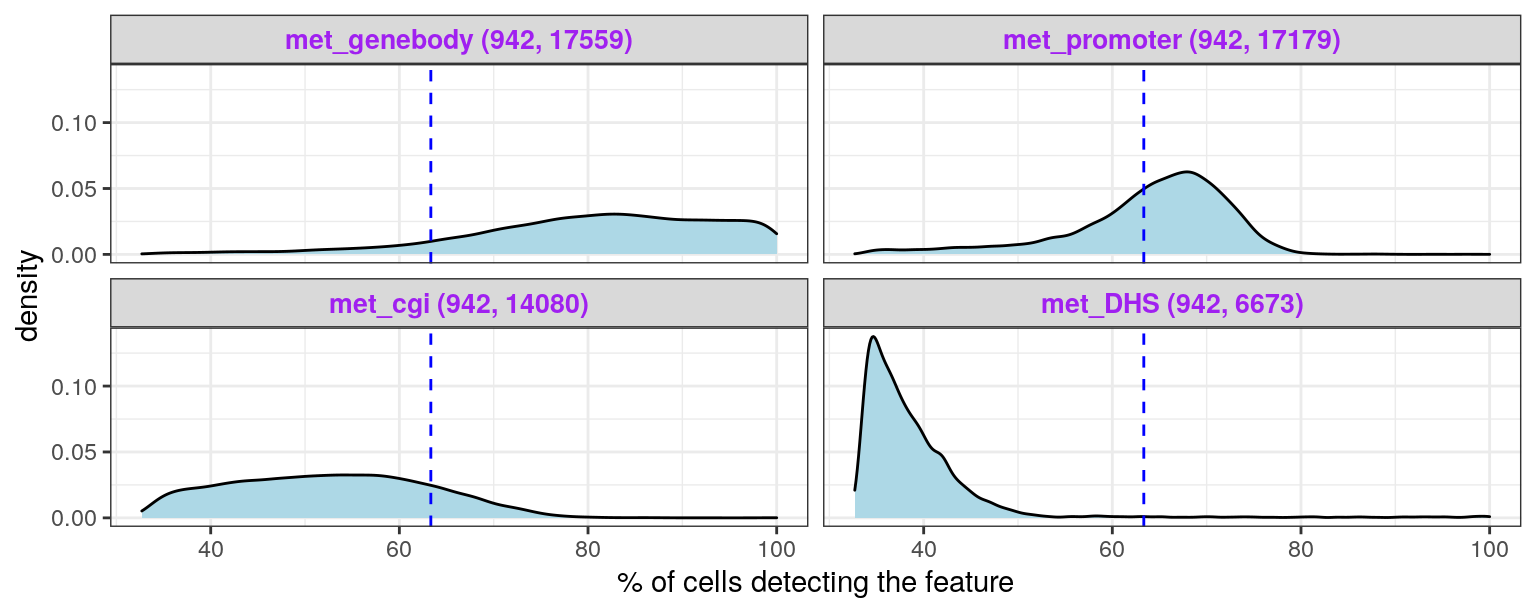
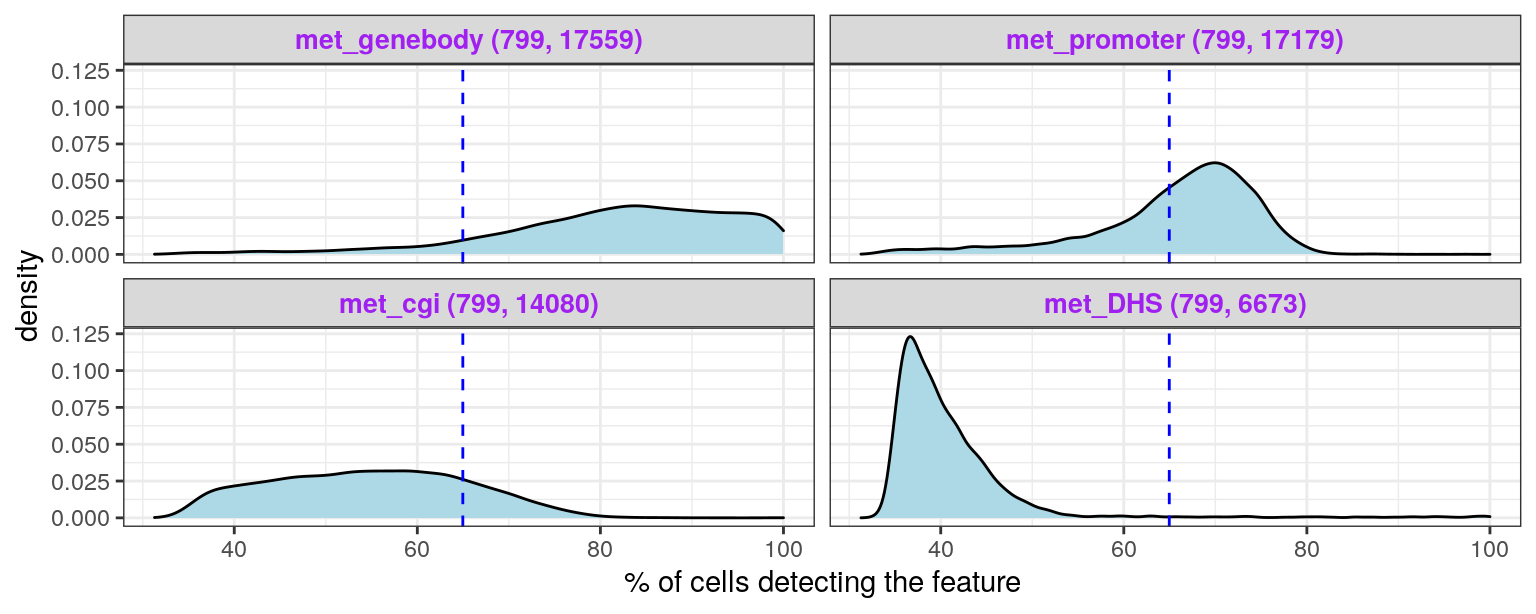
Deploying to gh-pages from  @ d77c88b7bd2f08ad3adbcee92618d14c445e838b 🚀

diff --git a/articles/index.html b/articles/index.html
@@ -127,28 +127,32 @@
 <div id="filter-mae-object" class="section level2">
 <h2 class="hasAnchor">
 <a href="#filter-mae-object" class="anchor"></a>Filter MAE object</h2>
-<div class="sourceCode" id="cb4"><html><body><pre class="r"><span class="co"># Subset RNA expression and DNA methylation modalities</span>
+<div class="sourceCode" id="cb4"><html><body><pre class="r"><span class="co">## subset RNA expression and DNA methylation modalities</span>
 <span class="no">keep_assays</span> <span class="kw">&lt;-</span> <span class="fu"><a href="https://rdrr.io/r/base/grep.html">grep</a></span>(<span class="st">"rna|met"</span>,<span class="fu"><a href="https://rdrr.io/r/base/names.html">names</a></span>(<span class="fu">assays</span>(<span class="no">gastru.mae</span>)))
-<span class="co"># Remove putative extraembryonic cells</span>
-<span class="no">keep_cells</span> <span class="kw">&lt;-</span> !(<span class="no">gastru.mae</span>$<span class="no">lineage</span> <span class="kw">%in%</span> <span class="no">params</span>$<span class="no">drop_lineages</span>)
-<span class="co">## keep full rna SCE for UMAP</span>
-<span class="no">rna.sce</span> <span class="kw">&lt;-</span> <span class="no">gastru.mae</span>[,<span class="no">keep_cells</span>,]@<span class="kw">ExperimentList</span>$<span class="no">rna</span>
-<span class="co"># Keep cells that pass QC for DNA methylation and RNA expression</span>
-<span class="no">keep_cells</span> <span class="kw">&lt;-</span> <span class="no">keep_cells</span> <span class="kw">&amp;</span> (<span class="no">gastru.mae</span>$<span class="no">pass_metQC</span><span class="kw">==</span><span class="fl">TRUE</span> <span class="kw">&amp;</span> <span class="no">gastru.mae</span>$<span class="no">pass_rnaQC</span><span class="kw">==</span><span class="fl">TRUE</span>)
-<span class="co">## subset MAE</span>
-<span class="no">gastru.mae</span> <span class="kw">&lt;-</span> <span class="no">gastru.mae</span>[,<span class="no">keep_cells</span>, <span class="no">keep_assays</span>]
+<span class="no">gastru.mae</span> <span class="kw">&lt;-</span> <span class="no">gastru.mae</span>[,,<span class="no">keep_assays</span>]
 <span class="co">#&gt; harmonizing input:</span>
-<span class="co">#&gt;   removing 3768 sampleMap rows not in names(experiments)</span>
-<span class="co">## rna SCE for matching cells</span>
+<span class="co">#&gt;   removing 4403 sampleMap rows not in names(experiments)</span>
+<span class="co">## remove putative extraembryonic cells</span>
+<span class="fu"><a href="https://rdrr.io/r/base/cat.html">cat</a></span>(<span class="fu"><a href="https://rdrr.io/r/base/sprintf.html">sprintf</a></span>(<span class="st">'dropping lineages %s\n'</span>, <span class="fu"><a href="https://rdrr.io/r/base/paste.html">paste</a></span>(<span class="no">params</span>$<span class="no">drop_lineages</span>, <span class="kw">collapse</span> <span class="kw">=</span> <span class="st">', '</span>)))
+<span class="co">#&gt; dropping lineages Primitive_endoderm, Visceral_endoderm, ExE_ectoderm</span>
+<span class="no">gastru.mae</span> <span class="kw">&lt;-</span> <span class="no">gastru.mae</span>[,!(<span class="no">gastru.mae</span>$<span class="no">lineage</span> <span class="kw">%in%</span> <span class="no">params</span>$<span class="no">drop_lineages</span>),]
+<span class="co">## keep cells which pass RNA QC</span>
+<span class="no">gastru.mae</span> <span class="kw">&lt;-</span> <span class="no">gastru.mae</span>[,<span class="no">gastru.mae</span>$<span class="no">pass_rnaQC</span><span class="kw">==</span><span class="fl">TRUE</span>,]
+<span class="co">## Keep full rna SCE for UMAP</span>
+<span class="no">rna.sce</span> <span class="kw">&lt;-</span> <span class="no">gastru.mae</span>@<span class="kw">ExperimentList</span>$<span class="no">rna</span>
+<span class="co">## keep cells that also pass QC for DNA methylation</span>
+<span class="no">gastru.mae</span> <span class="kw">&lt;-</span> <span class="no">gastru.mae</span>[,<span class="no">gastru.mae</span>$<span class="no">pass_metQC</span><span class="kw">==</span><span class="fl">TRUE</span>,]
+<span class="co">## rna SCE for cells passing met and rna QC</span>
 <span class="no">rna.sce.matching</span> <span class="kw">&lt;-</span> <span class="no">gastru.mae</span>@<span class="kw">ExperimentList</span>$<span class="no">rna</span></pre></body></html></div>
 <p>Replace the rna SCE with logcounts in MAE object as the integration wrapper requires matrices in assays:</p>
 <div class="sourceCode" id="cb5"><html><body><pre class="r"><span class="no">gastru.mae</span>@<span class="kw">ExperimentList</span>
 <span class="co">#&gt; ExperimentList class object of length 5:</span>
-<span class="co">#&gt;  [1] rna: SingleCellExperiment with 18345 rows and 942 columns</span>
-<span class="co">#&gt;  [2] met_genebody: matrix with 17559 rows and 942 columns</span>
-<span class="co">#&gt;  [3] met_promoter: matrix with 17179 rows and 942 columns</span>
-<span class="co">#&gt;  [4] met_cgi: matrix with 14080 rows and 942 columns</span>
-<span class="co">#&gt;  [5] met_DHS: matrix with 6673 rows and 942 columns</span>
+<span class="co">#&gt;  [1] rna: SingleCellExperiment with 18345 rows and 799 columns</span>
+<span class="co">#&gt;  [2] met_genebody: matrix with 17559 rows and 799 columns</span>
+<span class="co">#&gt;  [3] met_promoter: matrix with 17179 rows and 799 columns</span>
+<span class="co">#&gt;  [4] met_cgi: matrix with 14080 rows and 799 columns</span>
+<span class="co">#&gt;  [5] met_DHS: matrix with 6673 rows and 799 columns</span>
+<span class="co">## replace SCE with logcounts</span>
 <span class="no">gastru.mae</span>@<span class="kw">ExperimentList</span>$<span class="no">rna</span> <span class="kw">&lt;-</span> <span class="fu">logcounts</span>(<span class="no">gastru.mae</span>@<span class="kw">ExperimentList</span>$<span class="no">rna</span>)</pre></body></html></div>
 <p>Overview of assays:</p>
 <div class="sourceCode" id="cb6"><html><body><pre class="r"><span class="no">get_pct_missing</span> <span class="kw">&lt;-</span> <span class="kw">function</span>(<span class="no">arr</span>) {
@@ -175,40 +179,38 @@
 <tbody>
 <tr class="odd">
 <td align="left">rna</td>
-<td align="left">942</td>
+<td align="left">799</td>
 <td align="left">18345</td>
 <td align="left">0</td>
 </tr>
 <tr class="even">
 <td align="left">met_genebody</td>
-<td align="left">942</td>
+<td align="left">799</td>
 <td align="left">17559</td>
-<td align="left">20</td>
+<td align="left">18</td>
 </tr>
 <tr class="odd">
 <td align="left">met_promoter</td>
-<td align="left">942</td>
+<td align="left">799</td>
 <td align="left">17179</td>
-<td align="left">36</td>
+<td align="left">34</td>
 </tr>
 <tr class="even">
 <td align="left">met_cgi</td>
-<td align="left">942</td>
+<td align="left">799</td>
 <td align="left">14080</td>
-<td align="left">47</td>
+<td align="left">45</td>
 </tr>
 <tr class="odd">
 <td align="left">met_DHS</td>
-<td align="left">942</td>
+<td align="left">799</td>
 <td align="left">6673</td>
-<td align="left">61</td>
+<td align="left">59</td>
 </tr>
 </tbody>
 </table>
 <p>Breakdown of the number of cells in each stage:</p>
-<div class="sourceCode" id="cb7"><html><body><pre class="r"><span class="fu"><a href="https://rdrr.io/r/base/table.html">table</a></span>(<span class="no">gastru.mae</span>$<span class="no">stage</span>) <span class="kw">%&gt;%</span> <span class="fu"><a href="https://rdrr.io/r/base/as.data.frame.html">as.data.frame</a></span>() <span class="kw">%&gt;%</span> <span class="fu"><a href="https://rdrr.io/r/base/t.html">t</a></span>() <span class="kw">%&gt;%</span> <span class="fu"><a href="https://rdrr.io/pkg/magrittr/man/aliases.html">set_rownames</a></span>(<span class="fu"><a href="https://rdrr.io/r/base/c.html">c</a></span>(<span class="st">'stage'</span>, <span class="st">'# of cells'</span>)) <span class="kw">%&gt;%</span> <span class="fu">kable</span>()
-<span class="co">#&gt; Warning in kable_pipe(x = structure(c("stage", "# of cells", "E4.5", "107", :</span>
-<span class="co">#&gt; The table should have a header (column names)</span></pre></body></html></div>
+<div class="sourceCode" id="cb7"><html><body><pre class="r"><span class="fu"><a href="https://rdrr.io/r/base/table.html">table</a></span>(<span class="no">gastru.mae</span>$<span class="no">stage</span>) <span class="kw">%&gt;%</span> <span class="fu"><a href="https://rdrr.io/r/base/as.data.frame.html">as.data.frame</a></span>() <span class="kw">%&gt;%</span> <span class="fu"><a href="https://rdrr.io/r/base/t.html">t</a></span>() <span class="kw">%&gt;%</span> <span class="fu"><a href="https://rdrr.io/pkg/magrittr/man/aliases.html">set_rownames</a></span>(<span class="fu"><a href="https://rdrr.io/r/base/c.html">c</a></span>(<span class="st">'stage'</span>, <span class="st">'# of cells'</span>)) <span class="kw">%&gt;%</span> <span class="fu">kable</span>()</pre></body></html></div>
 <table class="table"><tbody>
 <tr class="odd">
 <td align="left">stage</td>
@@ -219,9 +221,9 @@
 </tr>
 <tr class="even">
 <td align="left"># of cells</td>
-<td align="left">107</td>
-<td align="left">110</td>
-<td align="left">351</td>
+<td align="left">63</td>
+<td align="left">86</td>
+<td align="left">276</td>
 <td align="left">374</td>
 </tr>
 </tbody></table>
@@ -261,9 +263,6 @@
 <div id="rna" class="section level1">
 <h1 class="hasAnchor">
 <a href="#rna" class="anchor"></a>RNA</h1>
-<div id="umap" class="section level2">
-<h2 class="hasAnchor">
-<a href="#umap" class="anchor"></a>UMAP</h2>
 <div class="sourceCode" id="cb11"><html><body><pre class="r"><span class="co"># Create colour palettes for stages:</span>
 <span class="co"># col_pallete &lt;-dput( viridisLite::viridis(n = 4) )</span>
 <span class="no">col_pallete</span> <span class="kw">&lt;-</span> <span class="fu"><a href="https://rdrr.io/r/base/c.html">c</a></span>(<span class="st">"#440154FF"</span>, <span class="st">"#31688EFF"</span>, <span class="st">"#35B779FF"</span>, <span class="st">"#FDE725FF"</span>)
@@ -275,20 +274,25 @@
   <span class="fu"><a href="https://ggplot2.tidyverse.org/reference/ggplot.html">ggplot</a></span>(<span class="no">df</span>, <span class="fu"><a href="https://ggplot2.tidyverse.org/reference/aes_.html">aes_string</a></span>(<span class="no">axes</span>[<span class="fl">1</span>], <span class="no">axes</span>[<span class="fl">2</span>])) + <span class="fu"><a href="https://ggplot2.tidyverse.org/reference/geom_point.html">geom_point</a></span>(<span class="fu"><a href="https://ggplot2.tidyverse.org/reference/aes.html">aes</a></span>(<span class="kw">col</span><span class="kw">=</span><span class="no">stage</span>)) +
     <span class="fu"><a href="https://ggplot2.tidyverse.org/reference/ggtheme.html">theme_classic</a></span>()+ <span class="fu"><a href="https://ggplot2.tidyverse.org/reference/scale_manual.html">scale_color_manual</a></span>(<span class="kw">values</span> <span class="kw">=</span> <span class="no">col_pallete</span>) + <span class="fu"><a href="https://ggplot2.tidyverse.org/reference/labs.html">labs</a></span>(<span class="kw">col</span> <span class="kw">=</span> <span class="st">'Stage'</span>)
 }</pre></body></html></div>
-<div id="all-rna-cells" class="section level3">
-<h3 class="hasAnchor">
-<a href="#all-rna-cells" class="anchor"></a>All RNA cells</h3>
+<div id="umap-projection-all-of-rna-cells" class="section level2">
+<h2 class="hasAnchor">
+<a href="#umap-projection-all-of-rna-cells" class="anchor"></a>UMAP projection all of RNA cells</h2>
 <p>Select highly variable genes after accounting for technical variation:</p>
 <div class="sourceCode" id="cb12"><html><body><pre class="r"><span class="no">decomp</span> <span class="kw">&lt;-</span> <span class="fu"><a href="https://rdrr.io/pkg/scran/man/modelGeneVar.html">modelGeneVar</a></span>(<span class="no">rna.sce</span>)
 <span class="co">## filter by mean expression and significance of biological variation signal</span>
 <span class="no">hvgs</span> <span class="kw">&lt;-</span> <span class="fu"><a href="https://rdrr.io/r/base/colnames.html">rownames</a></span>(<span class="no">decomp</span>)[<span class="no">decomp</span>$<span class="no">p.value</span><span class="kw">&lt;</span><span class="fl">0.01</span> <span class="kw">&amp;</span> <span class="no">decomp</span>$<span class="no">mean</span> <span class="kw">&gt;</span> <span class="fl">0.01</span>]
 <span class="fu"><a href="https://rdrr.io/r/base/length.html">length</a></span>(<span class="no">hvgs</span>)
-<span class="co">#&gt; [1] 381</span></pre></body></html></div>
+<span class="co">#&gt; [1] 337</span></pre></body></html></div>
 <p>Run PCA and then UMAP using PCs:</p>
 <div class="sourceCode" id="cb13"><html><body><pre class="r"><span class="no">npcs</span> <span class="kw">&lt;-</span> <span class="fl">15</span>
 <span class="co">## PCA first: retrieve npcs PCs</span>
-<span class="no">rna.sce</span> <span class="kw">&lt;-</span> <span class="fu"><a href="https://rdrr.io/pkg/scater/man/runPCA.html">runPCA</a></span>(<span class="no">rna.sce</span>,  <span class="kw">ncomponents</span> <span class="kw">=</span> <span class="no">npcs</span>, <span class="kw">subset_row</span><span class="kw">=</span><span class="no">hvgs</span>)
+<span class="no">rna.sce</span> <span class="kw">&lt;-</span> <span class="fu"><a href="https://rdrr.io/pkg/scater/man/runPCA.html">runPCA</a></span>(<span class="no">rna.sce</span>,  <span class="kw">ncomponents</span> <span class="kw">=</span> <span class="no">npcs</span>, <span class="kw">subset_row</span><span class="kw">=</span><span class="no">hvgs</span>, <span class="kw">name</span> <span class="kw">=</span> <span class="st">'PCA'</span>)
 
+<span class="co">## UMAP parameters used:</span>
+<span class="fu"><a href="https://rdrr.io/r/base/cat.html">cat</a></span>(<span class="fu"><a href="https://rdrr.io/r/base/sprintf.html">sprintf</a></span>(<span class="st">'Running UMAP with parameters %s\n'</span>, <span class="fu"><a href="https://rdrr.io/r/base/paste.html">paste</a></span>(<span class="no">params</span>$<span class="no">umap_params</span>, <span class="kw">collapse</span> <span class="kw">=</span> <span class="st">', '</span>)))
+<span class="co">#&gt; Running UMAP with parameters 42, 15, 2, 0.55</span>
+
+<span class="co">## run UMAP</span>
 <span class="fu"><a href="https://rdrr.io/r/base/Random.html">set.seed</a></span>(<span class="no">params</span>$<span class="no">umap_params</span>[<span class="st">'run.seed'</span>])
 <span class="no">rna.sce</span> <span class="kw">&lt;-</span> <span class="fu"><a href="https://rdrr.io/pkg/scater/man/runUMAP.html">runUMAP</a></span>(<span class="no">rna.sce</span>, <span class="kw">dimred</span><span class="kw">=</span><span class="st">"PCA"</span>,
                    <span class="kw">ncomponents</span> <span class="kw">=</span> <span class="no">params</span>$<span class="no">umap_params</span>[<span class="st">'n_components'</span>],
@@ -301,22 +305,29 @@
 <span class="no">df</span> <span class="kw">&lt;-</span> <span class="fu"><a href="https://rdrr.io/r/base/cbind.html">cbind</a></span>(<span class="no">df</span>, <span class="fu">colData</span>(<span class="no">rna.sce</span>))</pre></body></html></div>
 <p>Plot the first two UMAP components:</p>
 <div class="sourceCode" id="cb15"><html><body><pre class="r"><span class="fu">plot_umap_by_stage</span>(<span class="kw">df</span> <span class="kw">=</span> <span class="no">df</span>, <span class="kw">dims</span> <span class="kw">=</span> <span class="fu"><a href="https://rdrr.io/r/base/c.html">c</a></span>(<span class="fl">1</span>,<span class="fl">2</span>))</pre></body></html></div>
-<p><img src="index_files/figure-html/unnamed-chunk-18-1.png" width="768"> UMAP plot shows distinct cell populations corresponding to early-stage, mid-stage, and late-stage cells as well as the within-stage variation for mainly E4.5 and E6.5 which could correspond to different lineages.</p>
+<p><img src="index_files/figure-html/unnamed-chunk-18-1.png" width="768"></p>
+<p>UMAP plot shows distinct cell populations corresponding to early-stage, mid-stage, and late-stage cells as well as the within-stage variation for mainly E4.5 and E6.5 which could correspond to different lineages.</p>
 </div>
-<div id="matching-rna-cells" class="section level3">
-<h3 class="hasAnchor">
-<a href="#matching-rna-cells" class="anchor"></a>Matching RNA cells</h3>
+<div id="umap-projection-all-matching-rna-cells-used-in-integration" class="section level2">
+<h2 class="hasAnchor">
+<a href="#umap-projection-all-matching-rna-cells-used-in-integration" class="anchor"></a>UMAP projection all matching RNA cells used in integration</h2>
 <p>Select highly variable genes after accounting for technical variation:</p>
 <div class="sourceCode" id="cb16"><html><body><pre class="r"><span class="no">decomp</span> <span class="kw">&lt;-</span> <span class="fu"><a href="https://rdrr.io/pkg/scran/man/modelGeneVar.html">modelGeneVar</a></span>(<span class="no">rna.sce.matching</span>)
 <span class="co">## filter by mean expression and significance of biological variation signal</span>
 <span class="no">hvgs</span> <span class="kw">&lt;-</span> <span class="fu"><a href="https://rdrr.io/r/base/colnames.html">rownames</a></span>(<span class="no">decomp</span>)[<span class="no">decomp</span>$<span class="no">p.value</span><span class="kw">&lt;</span><span class="fl">0.01</span> <span class="kw">&amp;</span> <span class="no">decomp</span>$<span class="no">mean</span> <span class="kw">&gt;</span> <span class="fl">0.01</span>]
 <span class="fu"><a href="https://rdrr.io/r/base/length.html">length</a></span>(<span class="no">hvgs</span>)
-<span class="co">#&gt; [1] 474</span></pre></body></html></div>
+<span class="co">#&gt; [1] 350</span></pre></body></html></div>
 <p>Run PCA and then UMAP using PCs:</p>
-<div class="sourceCode" id="cb17"><html><body><pre class="r"><span class="co">## PCA first: retrieve 25 PCs</span>
-<span class="no">rna.sce.matching</span> <span class="kw">&lt;-</span> <span class="fu"><a href="https://rdrr.io/pkg/scater/man/runPCA.html">runPCA</a></span>(<span class="no">rna.sce.matching</span>,  <span class="kw">ncomponents</span> <span class="kw">=</span> <span class="fl">25</span>, <span class="kw">subset_row</span><span class="kw">=</span><span class="no">hvgs</span>)
+<div class="sourceCode" id="cb17"><html><body><pre class="r"><span class="no">npcs</span> <span class="kw">&lt;-</span> <span class="fl">15</span>
+<span class="co">## PCA first: retrieve npcs PCs</span>
+<span class="no">rna.sce.matching</span> <span class="kw">&lt;-</span> <span class="fu"><a href="https://rdrr.io/pkg/scater/man/runPCA.html">runPCA</a></span>(<span class="no">rna.sce.matching</span>,  <span class="kw">ncomponents</span> <span class="kw">=</span> <span class="no">npcs</span>, <span class="kw">subset_row</span><span class="kw">=</span><span class="no">hvgs</span>, <span class="kw">name</span> <span class="kw">=</span> <span class="st">'PCA'</span>)
 
-<span class="fu"><a href="https://rdrr.io/r/base/Random.html">RNGversion</a></span>(<span class="st">'4.0.0'</span>)
+<span class="co">## UMAP parameters used:</span>
+<span class="no">params</span>$<span class="no">umap_params</span>
+<span class="co">#&gt;     run.seed  n_neighbors n_components     min_dist </span>
+<span class="co">#&gt;        42.00        15.00         2.00         0.55</span>
+
+<span class="co">## run UMAP</span>
 <span class="fu"><a href="https://rdrr.io/r/base/Random.html">set.seed</a></span>(<span class="no">params</span>$<span class="no">umap_params</span>[<span class="st">'run.seed'</span>])
 <span class="no">rna.sce.matching</span> <span class="kw">&lt;-</span> <span class="fu"><a href="https://rdrr.io/pkg/scater/man/runUMAP.html">runUMAP</a></span>(<span class="no">rna.sce.matching</span>, <span class="kw">dimred</span><span class="kw">=</span><span class="st">"PCA"</span>,
                    <span class="kw">ncomponents</span> <span class="kw">=</span> <span class="no">params</span>$<span class="no">umap_params</span>[<span class="st">'n_components'</span>],
@@ -324,13 +335,12 @@
                    <span class="kw">min_dist</span> <span class="kw">=</span> <span class="no">params</span>$<span class="no">umap_params</span>[<span class="st">'min_dist'</span>])</pre></body></html></div>
 <p>data.frame of embeddings with cell metadata:</p>
 <div class="sourceCode" id="cb18"><html><body><pre class="r"><span class="co"># data.frame of embeddings with cell metadata</span>
-<span class="no">df</span> <span class="kw">&lt;-</span>  <span class="fu"><a href="https://rdrr.io/r/base/data.frame.html">data.frame</a></span>(<span class="fu">reducedDim</span>(<span class="no">rna.sce.matching</span>,<span class="st">"UMAP"</span>))
-<span class="fu"><a href="https://rdrr.io/r/base/colnames.html">colnames</a></span>(<span class="no">df</span>) <span class="kw">&lt;-</span> <span class="fu"><a href="https://rdrr.io/r/base/paste.html">paste0</a></span>(<span class="st">'UMAP_'</span>, <span class="fu"><a href="https://rdrr.io/r/base/seq.html">seq_along</a></span>(<span class="no">df</span>))
-<span class="no">df</span> <span class="kw">&lt;-</span> <span class="fu"><a href="https://rdrr.io/r/base/cbind.html">cbind</a></span>(<span class="no">df</span>, <span class="fu">colData</span>(<span class="no">rna.sce.matching</span>))</pre></body></html></div>
+<span class="no">df.matching</span> <span class="kw">&lt;-</span>  <span class="fu"><a href="https://rdrr.io/r/base/data.frame.html">data.frame</a></span>(<span class="fu">reducedDim</span>(<span class="no">rna.sce.matching</span>,<span class="st">"UMAP"</span>))
+<span class="fu"><a href="https://rdrr.io/r/base/colnames.html">colnames</a></span>(<span class="no">df.matching</span>) <span class="kw">&lt;-</span> <span class="fu"><a href="https://rdrr.io/r/base/paste.html">paste0</a></span>(<span class="st">'UMAP_'</span>, <span class="fu"><a href="https://rdrr.io/r/base/seq.html">seq_along</a></span>(<span class="no">df.matching</span>))
+<span class="no">df.matching</span> <span class="kw">&lt;-</span> <span class="fu"><a href="https://rdrr.io/r/base/cbind.html">cbind</a></span>(<span class="no">df.matching</span>, <span class="fu">colData</span>(<span class="no">rna.sce.matching</span>))</pre></body></html></div>
 <p>Plot the first two UMAP components:</p>
-<div class="sourceCode" id="cb19"><html><body><pre class="r"><span class="fu">plot_umap_by_stage</span>(<span class="kw">df</span> <span class="kw">=</span> <span class="no">df</span>, <span class="kw">dims</span> <span class="kw">=</span> <span class="fu"><a href="https://rdrr.io/r/base/c.html">c</a></span>(<span class="fl">1</span>,<span class="fl">2</span>))</pre></body></html></div>
+<div class="sourceCode" id="cb19"><html><body><pre class="r"><span class="fu">plot_umap_by_stage</span>(<span class="kw">df</span> <span class="kw">=</span> <span class="no">df.matching</span>, <span class="kw">dims</span> <span class="kw">=</span> <span class="fu"><a href="https://rdrr.io/r/base/c.html">c</a></span>(<span class="fl">1</span>,<span class="fl">2</span>))</pre></body></html></div>
 <p><img src="index_files/figure-html/unnamed-chunk-22-1.png" width="768"></p>
-</div>
 </div>
 </div>
 <div id="integration" class="section level1">
@@ -367,19 +377,19 @@
 <div class="sourceCode" id="cb20"><html><body><pre class="r"><span class="co"># data dimensions</span>
 <span class="fu"><a href="https://rdrr.io/r/base/lapply.html">lapply</a></span>(<span class="fu"><a href="https://rdrr.io/pkg/MultiAssayExperiment/man/MultiAssayExperiment-methods.html">experiments</a></span>(<span class="no">gastru.mae</span>), <span class="no">dim</span>)
 <span class="co">#&gt; $rna</span>
-<span class="co">#&gt; [1] 18345   942</span>
+<span class="co">#&gt; [1] 18345   799</span>
 <span class="co">#&gt; </span>
 <span class="co">#&gt; $met_genebody</span>
-<span class="co">#&gt; [1] 17559   942</span>
+<span class="co">#&gt; [1] 17559   799</span>
 <span class="co">#&gt; </span>
 <span class="co">#&gt; $met_promoter</span>
-<span class="co">#&gt; [1] 17179   942</span>
+<span class="co">#&gt; [1] 17179   799</span>
 <span class="co">#&gt; </span>
 <span class="co">#&gt; $met_cgi</span>
-<span class="co">#&gt; [1] 14080   942</span>
+<span class="co">#&gt; [1] 14080   799</span>
 <span class="co">#&gt; </span>
 <span class="co">#&gt; $met_DHS</span>
-<span class="co">#&gt; [1] 6673  942</span></pre></body></html></div>
+<span class="co">#&gt; [1] 6673  799</span></pre></body></html></div>
 <p>integration of all modalities with feature selection:</p>
 <div class="sourceCode" id="cb21"><html><body><pre class="r"><span class="co">## number of components</span>
 <span class="no">ncomp</span> <span class="kw">&lt;-</span> <span class="fl">2</span>
@@ -404,7 +414,7 @@
 
 <span class="fu"><a href="https://rdrr.io/r/base/cat.html">cat</a></span>(<span class="st">'\nPLS run finished. Runtime: '</span>, <span class="no">st</span>, <span class="st">'min\n'</span>)
 <span class="co">#&gt; </span>
-<span class="co">#&gt; PLS run finished. Runtime:  2.2 min</span></pre></body></html></div>
+<span class="co">#&gt; PLS run finished. Runtime:  1.5 min</span></pre></body></html></div>
 <div class="sourceCode" id="cb23"><html><body><pre class="r"><span class="no">plotIndiv_wrapper</span> <span class="kw">&lt;-</span> <span class="kw">function</span>(<span class="no">pls_obj</span>, <span class="no">coldata</span>, <span class="no">col_cell</span> <span class="kw">=</span> <span class="st">'stage'</span>, <span class="no">legend.title</span> <span class="kw">=</span> <span class="st">'Stage'</span>, <span class="no">comp</span> <span class="kw">=</span> <span class="fu"><a href="https://rdrr.io/r/base/c.html">c</a></span>(<span class="fl">1</span>,<span class="fl">2</span>), <span class="no">...</span>) {
   <span class="co">## order coldata cells based on matching cells in pls modalities</span>
   <span class="no">coldata</span> <span class="kw">&lt;-</span> <span class="no">coldata</span>[<span class="fu"><a href="https://rdrr.io/r/base/colnames.html">rownames</a></span>(<span class="no">pls_obj</span>$<span class="no">X</span><span class="kw">[[</span><span class="fl">1</span>]]),]
@@ -427,7 +437,10 @@
 <h1 class="hasAnchor">
 <a href="#concordance-with-rna" class="anchor"></a>concordance with RNA</h1>
 <p>Here we calculate the correlations between components from gene expression and different methylome modalities:</p>
-<div class="sourceCode" id="cb25"><html><body><pre class="r"><span class="no">concordance</span> <span class="kw">&lt;-</span> <span class="kw">function</span>(<span class="no">pls_obj</span>, <span class="no">comp</span> <span class="kw">=</span> <span class="fl">1</span>) {
+<div class="sourceCode" id="cb25"><html><body><pre class="r"><span class="co">## For a pls object which includes pls cell embeddings from a computed latent space</span>
+<span class="co">## where covariance with rna is maximal, calculate the correlation b/w rna embeddings</span>
+<span class="co">## and those of a given modality's (per component and average) as a measure of concordant variation with rna</span>
+<span class="no">concordance</span> <span class="kw">&lt;-</span> <span class="kw">function</span>(<span class="no">pls_obj</span>, <span class="no">comp</span> <span class="kw">=</span> <span class="fl">1</span>) {
 
   <span class="co">## correlation of components with RNA components</span>
   <span class="no">cor_with_y</span> <span class="kw">&lt;-</span> <span class="fu"><a href="https://rdrr.io/r/base/lapply.html">sapply</a></span>(<span class="no">pls_obj</span>$<span class="no">variates</span>[-<span class="fl">1</span>], <span class="kw">function</span>(<span class="no">x_variates</span>) {
@@ -440,6 +453,7 @@
     <span class="no">cor</span> <span class="kw">&lt;-</span> <span class="fu"><a href="https://rdrr.io/r/base/Round.html">round</a></span>(<span class="no">cor</span>, <span class="fl">2</span>)
     <span class="no">cor</span>
   })
+  <span class="fu"><a href="https://rdrr.io/pkg/mixOmics/man/S3methods-print.html">print</a></span>(<span class="fu">kable</span>(<span class="no">cor_with_y</span>))
   <span class="co">## make a long data.frame</span>
   <span class="no">cor_with_y</span> <span class="kw">&lt;-</span> <span class="no">cor_with_y</span> <span class="kw">%&gt;%</span> <span class="fu"><a href="https://rdrr.io/r/base/as.data.frame.html">as.data.frame</a></span>() <span class="kw">%&gt;%</span> <span class="fu"><a href="https://rdrr.io/r/base/t.html">t</a></span>() <span class="kw">%&gt;%</span>
     <span class="kw pkg">reshape2</span><span class="kw ns">::</span><span class="fu"><a href="https://rdrr.io/pkg/reshape2/man/melt.html">melt</a></span>(<span class="kw">id.vars</span> <span class="kw">=</span> <span class="fl">1</span>:<span class="fl">3</span>) <span class="kw">%&gt;%</span>
@@ -454,7 +468,14 @@
   <span class="fu"><a href="https://ggplot2.tidyverse.org/reference/ggplot.html">ggplot</a></span>(<span class="no">cor_with_y</span>, <span class="fu"><a href="https://ggplot2.tidyverse.org/reference/aes.html">aes</a></span>(<span class="kw">x</span> <span class="kw">=</span> <span class="no">Modality</span>, <span class="kw">y</span> <span class="kw">=</span> <span class="no">Concordance</span>)) + <span class="fu"><a href="https://ggplot2.tidyverse.org/reference/geom_bar.html">geom_col</a></span>(<span class="fu"><a href="https://ggplot2.tidyverse.org/reference/aes.html">aes</a></span>(<span class="kw">fill</span> <span class="kw">=</span> <span class="no">Component</span>), <span class="kw">position</span> <span class="kw">=</span> <span class="st">'dodge2'</span>) + <span class="fu"><a href="https://ggplot2.tidyverse.org/reference/ggtheme.html">theme_classic</a></span>() +
     <span class="fu"><a href="https://ggplot2.tidyverse.org/reference/labs.html">labs</a></span>(<span class="kw">y</span> <span class="kw">=</span> <span class="fu"><a href="https://rdrr.io/r/base/sprintf.html">sprintf</a></span>(<span class="st">'Correlation with RNA (comp %s) '</span>, <span class="fu"><a href="https://rdrr.io/r/base/paste.html">paste</a></span>(<span class="no">comp</span>, <span class="kw">collapse</span> <span class="kw">=</span> <span class="st">', '</span>)), <span class="kw">x</span> <span class="kw">=</span> <span class="st">''</span>, <span class="kw">fill</span> <span class="kw">=</span> <span class="st">''</span>) + <span class="fu"><a href="https://ggplot2.tidyverse.org/reference/lims.html">ylim</a></span>(<span class="fu"><a href="https://rdrr.io/r/base/c.html">c</a></span>(<span class="fl">0</span>, <span class="fl">1</span>)) + <span class="fu"><a href="https://ggplot2.tidyverse.org/reference/theme.html">theme</a></span>(<span class="kw">axis.text.x</span> <span class="kw">=</span> <span class="fu"><a href="https://ggplot2.tidyverse.org/reference/element.html">element_text</a></span>(<span class="kw">angle</span> <span class="kw">=</span> <span class="fl">45</span>, <span class="kw">vjust</span> <span class="kw">=</span> <span class="fl">0.8</span>, <span class="kw">hjust</span><span class="kw">=</span><span class="fl">1</span>))
 }</pre></body></html></div>
-<div class="sourceCode" id="cb26"><html><body><pre class="r"><span class="fu">concordance</span>(<span class="kw">pls_obj</span> <span class="kw">=</span> <span class="no">mmspls</span>, <span class="kw">comp</span> <span class="kw">=</span> <span class="fu"><a href="https://rdrr.io/r/base/c.html">c</a></span>(<span class="fl">1</span>, <span class="fl">2</span>))</pre></body></html></div>
+<div class="sourceCode" id="cb26"><html><body><pre class="r"><span class="fu">concordance</span>(<span class="kw">pls_obj</span> <span class="kw">=</span> <span class="no">mmspls</span>, <span class="kw">comp</span> <span class="kw">=</span> <span class="fu"><a href="https://rdrr.io/r/base/c.html">c</a></span>(<span class="fl">1</span>, <span class="fl">2</span>))
+<span class="co">#&gt; </span>
+<span class="co">#&gt; </span>
+<span class="co">#&gt; |            | met_genebody| met_promoter| met_cgi| met_DHS|</span>
+<span class="co">#&gt; |:-----------|------------:|------------:|-------:|-------:|</span>
+<span class="co">#&gt; |Component 1 |         0.95|         0.92|    0.91|    0.92|</span>
+<span class="co">#&gt; |Component 2 |         0.42|         0.43|    0.57|    0.44|</span>
+<span class="co">#&gt; |mean        |         0.68|         0.67|    0.74|    0.68|</span></pre></body></html></div>
 <p><img src="index_files/figure-html/unnamed-chunk-30-1.png" width="768"></p>
 </div>
 <div class="footnotes">
